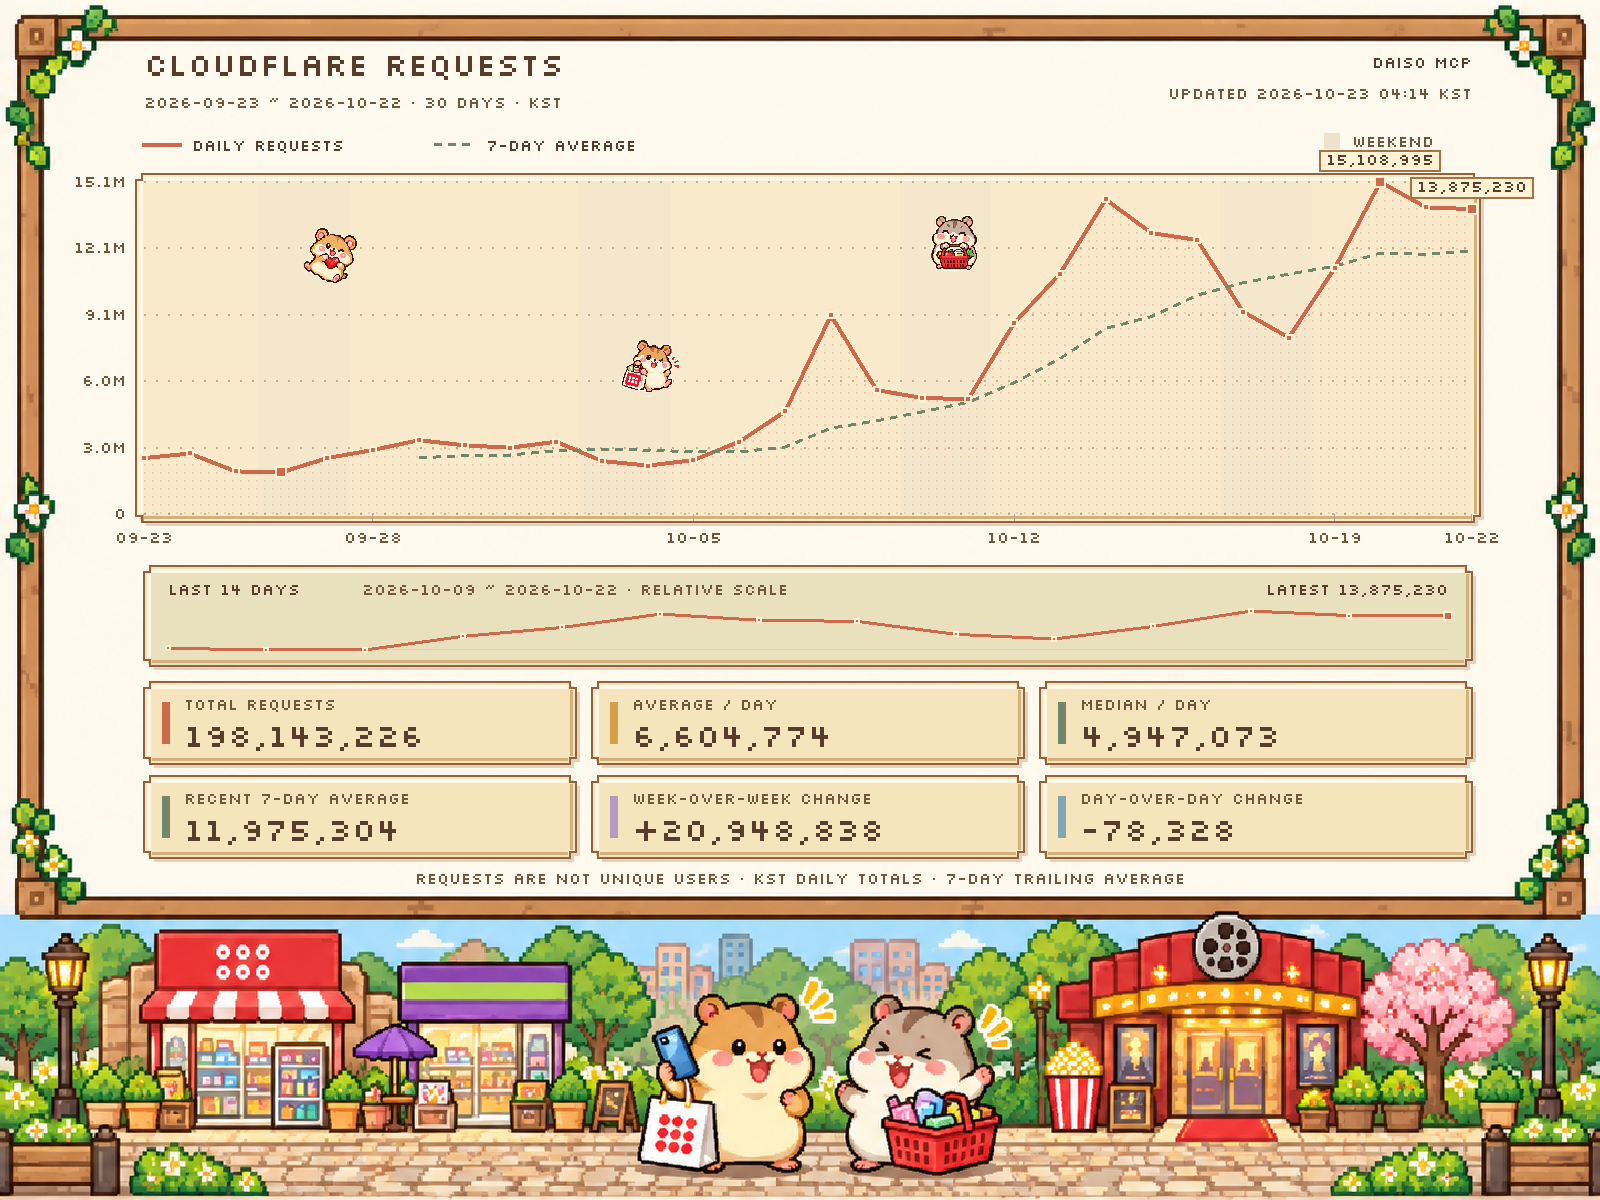
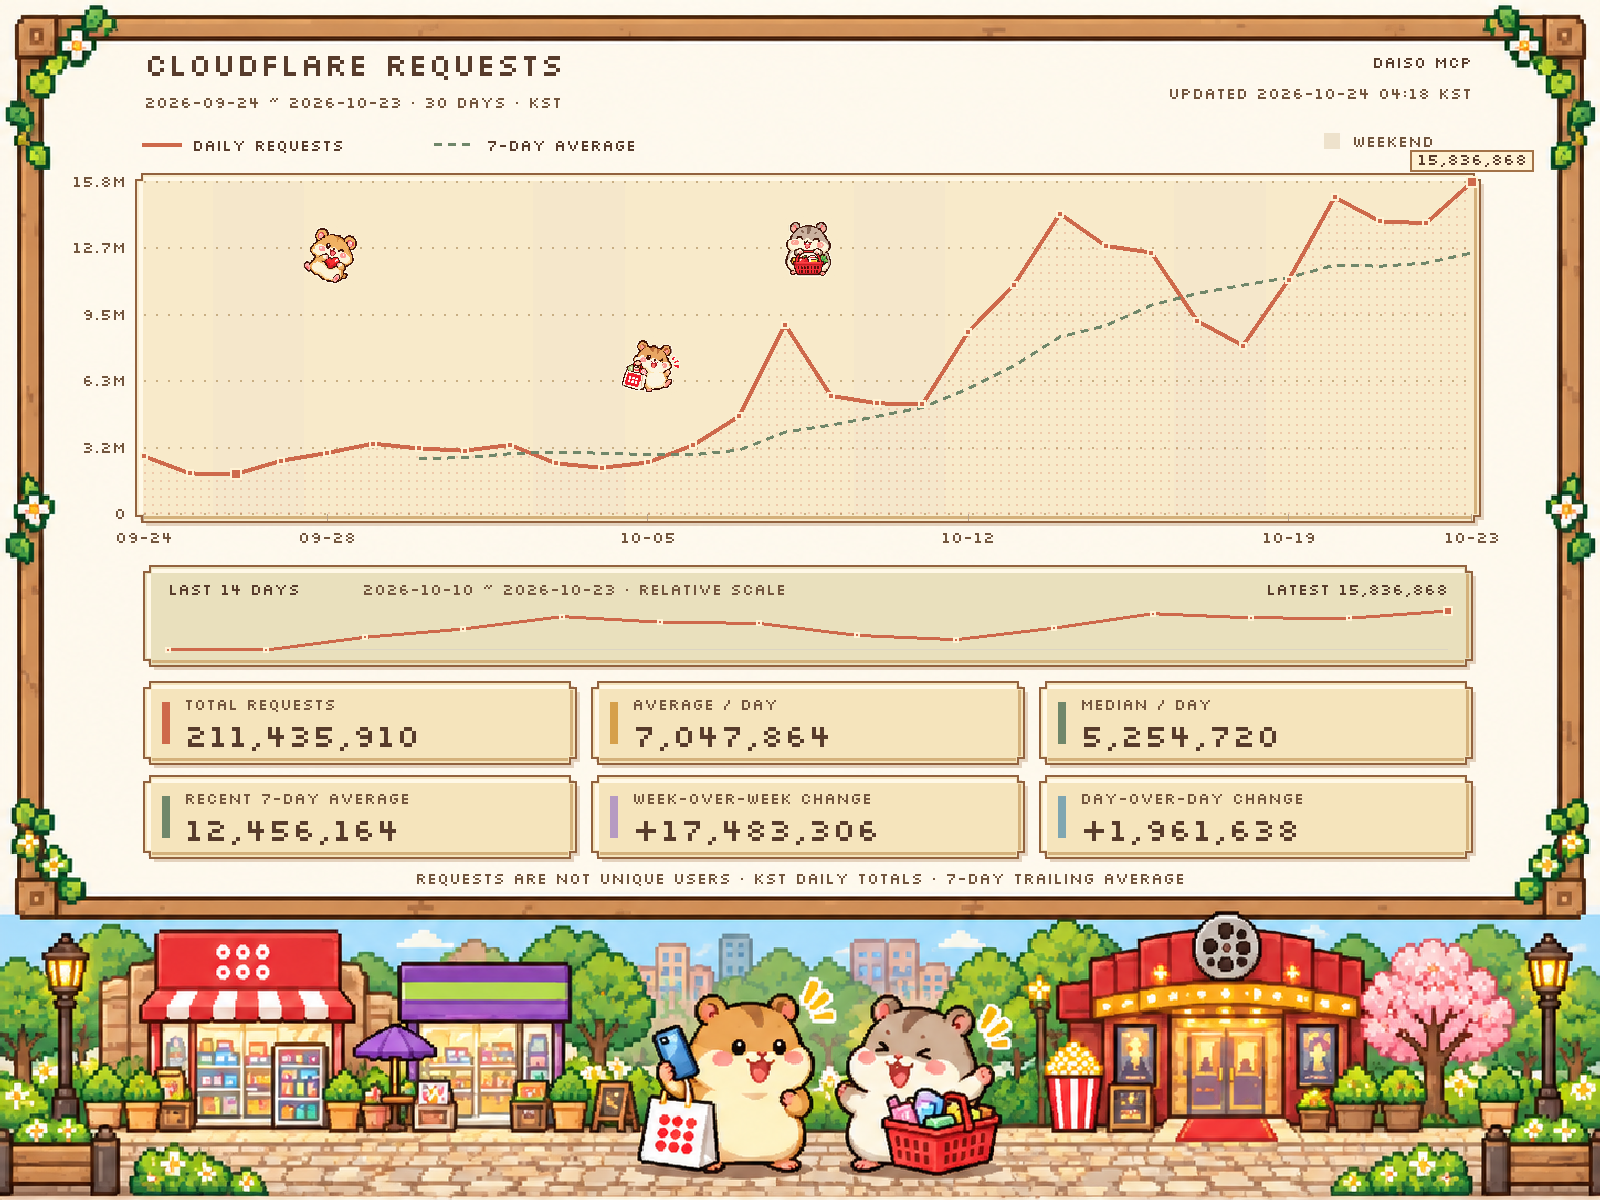
chore: 워커 호출량 그래프 자동 갱신

diff --git a/README.md b/README.md
@@ -94,11 +94,11 @@
 **[실시간 서비스 상태 보기](https://aka-page.betteruptime.com/)**
 
 <!-- WORKERS_INVOCATIONS_CHART:START -->
-<h3>Cloudflare 요청 수 (2026-09-23 ~ 2026-10-22, 30일)</h3>
+<h3>Cloudflare 요청 수 (2026-09-24 ~ 2026-10-23, 30일)</h3>
 
-<img src="./assets/analytics/workers-invocations.png?v=2026-10-22T19:14:28.588Z" alt="Cloudflare 요청 수 그래프 (2026-09-23 ~ 2026-10-22)" width="100%">
+<img src="./assets/analytics/workers-invocations.png?v=2026-10-23T19:18:36.371Z" alt="Cloudflare 요청 수 그래프 (2026-09-24 ~ 2026-10-23)" width="100%">
 
-<sub>기준 워커: <code>daiso-mcp</code> · 마지막 갱신: 2026-10-23 04:14 KST</sub>
+<sub>기준 워커: <code>daiso-mcp</code> · 마지막 갱신: 2026-10-24 04:18 KST</sub>
 <br><sub>집계: Worker 실행 + 루트 GET 리디렉션 요청 · 사용자 수와 다릅니다.</sub>
 
 </div>

diff --git a/scripts/ops/README.md b/scripts/ops/README.md
@@ -25,11 +25,11 @@
 <!-- WORKERS_INVOCATIONS_CHART:START -->
 <div align="center">
 
-<h3>Cloudflare 요청 수 (2026-09-23 ~ 2026-10-22, 30일)</h3>
+<h3>Cloudflare 요청 수 (2026-09-24 ~ 2026-10-23, 30일)</h3>
 
-<img src="../../assets/analytics/workers-invocations.png?v=2026-10-22T19:14:28.588Z" alt="Cloudflare 요청 수 그래프 (2026-09-23 ~ 2026-10-22)" width="100%">
+<img src="../../assets/analytics/workers-invocations.png?v=2026-10-23T19:18:36.371Z" alt="Cloudflare 요청 수 그래프 (2026-09-24 ~ 2026-10-23)" width="100%">
 
-<sub>기준 워커: <code>daiso-mcp</code> · 마지막 갱신: 2026-10-23 04:14 KST</sub>
+<sub>기준 워커: <code>daiso-mcp</code> · 마지막 갱신: 2026-10-24 04:18 KST</sub>
 <br><sub>집계: Worker 실행 + 루트 GET 리디렉션 요청 · 사용자 수와 다릅니다.</sub>
 
 </div>
